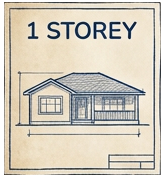
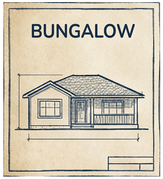
The hem is the browser's band, not the bar's
CI shard 4 went red on model-html-select: "a click 4px from the wall is inside
the 12px grab zone and must select". It reproduced locally, and a worktree at
main passed all three -- so it was mine, and the bisect put it on the browser
lane rather than anywhere near selection.

WHAT CONNECTS A HEM AT THE FOOT TO A CLICK IN THE MIDDLE. chromeInsets()
measures the house strip's RENDERED height and fit() centres the drawing in
what the two bars leave:

    view.cz = (minZ + maxZ) / 2 - (ins.top - ins.bottom) / 2 / view.scale;

Top 44, bottom 40, difference 4, offset 2px -- which is why the line has never
mattered. The lane made the bottom 64, the difference -20, and the plan slid
10px up the sheet. The wall came off the canvas centre, so a click 4px from it
was 16px from it and outside the grab zone. The centre click in the test above
it still passed at exactly 12px, which is how a 10px shift produced one red
line and not two. That function's own comment had already named the
precondition: "Equal bars, no offset, which is why this was invisible while
they matched."

SO THE INSET SKIPS THE HEM. The lane exists so the BROWSER's link preview
lands on panel colour instead of on a nav chip -- a band drawn over the page,
only while a link is hovered, and gone the moment the pointer moves. A drawing
that dodged it would be permanently smaller to make room for a tooltip. The
bar keeps its deeper hem; the drawing frames against the bar.
[…]

diff --git a/MODEL.html b/MODEL.html
@@ -1923,7 +1923,32 @@
       const r = el.getBoundingClientRect();
       return Number.isFinite(r?.height) ? r.height : 0;
     };
-    const top = tall('strip'), bottom = tall('house-strip');
+    // THE HEM IS NOT THE BAR. The house strip carries --browser-lane as bottom
+    // padding so the browser's own link-preview strip lands on panel colour
+    // instead of on a nav chip -- and that band is the BROWSER'S, drawn over
+    // whatever is beneath it and only while a link is hovered. A drawing that
+    // dodged it would be permanently smaller to make room for a tooltip.
+    //
+    // MEASURED OFF THE ELEMENT, not read back from the custom property: the
+    // lane IS this padding, so taking the padding cannot drift from what is
+    // rendered the way a second lookup of the variable could.
+    //
+    // IT COST A SPEC TO LEARN. The lane made the strip 64px where it had been
+    // 40, and the line at the foot of this function offsets the drawing by
+    // half the DIFFERENCE between the two bars -- so the plan slid 10px up,
+    // model-html-select's wall came off the canvas centre, and a click 4px
+    // from it was suddenly 16px from it and outside the 12px grab zone. The
+    // comment there already said why it would be invisible until it wasn't:
+    // "Equal bars, no offset, which is why this was invisible while they
+    // matched."
+    const hemOf = id => {
+      const el = document.getElementById(id);
+      if (!el) return 0;
+      const pad = parseFloat(getComputedStyle(el).paddingBottom);
+      return Number.isFinite(pad) ? pad : 0;
+    };
+    const top = tall('strip');
+    const bottom = Math.max(tall('house-strip') - hemOf('house-strip'), 0);
     // A sheet that is nearly all bar is a broken layout, not a tight fit.
     // Refusing the inset there leaves the old framing rather than dividing
     // the drawing into a sliver -- visibly wrong beats invisibly tiny.

diff --git a/tests/build-row-lights.spec.js b/tests/build-row-lights.spec.js
@@ -40,7 +40,16 @@ const TYPES = ['bungalow', 'twoStorey', 'bilevel', 'modifiedBilevel'];
 // The row is a MENU since 6 Sep: these three sit on it, and the types live one
 // press inside. So a type lamp can only be read with its family OPEN, which is
 // what the second argument to lamps() is for.
-const FAMILIES = ['bungalow', 'bilevel', 'detachedGarage'];
+// THE FAMILIES THE ROW OFFERS, READ OFF THE MODULE rather than typed here.
+// This was a literal in the module's own order, and on 24 Sep that order
+// changed -- Movie put DETACHED GARAGE first -- so a roster nobody had thought
+// about since it was written turned a working row red. build-menu.js's comment
+// says the array is the one place the order is said and "a hardcoded roster
+// somewhere else would be the bug"; this was that roster. Two other specs
+// already derive theirs (model-drivethru, model-html-topbar), which is why
+// they did not notice at all.
+const familiesOf = page => page.evaluate(
+  () => window.DraftBuildMenu.BUILD_MENU.map(family => family.id));
 const FAMILY_OF = { bungalow: 'bungalow', twoStorey: 'bungalow', bilevel: 'bilevel', modifiedBilevel: 'bilevel' };
 
 // Each lamp read as the pair that describes it: which art it wears (or, for
@@ -122,6 +131,8 @@ test.describe('The build row lamps', () => {
     await h.openModel(page, { webgl: false });
 
     // Closed, the row carries the three families and no type at all.
+    const FAMILIES = await familiesOf(page);
+    expect(FAMILIES.length, 'the menu went empty').toBe(3);
     let state = await lamps(page);
     expect(Object.keys(state.families)).toEqual(FAMILIES);
     expect(Object.keys(state.types)).toEqual([]);
